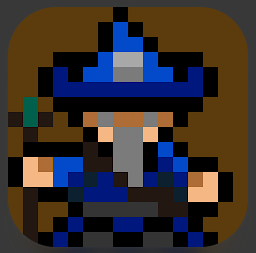
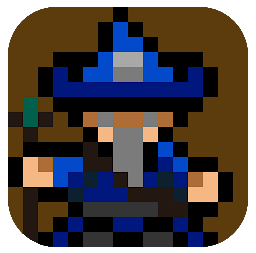
fix: added transparent background for Arithmagic image

Changed region(s): [[0.0, 0.0, 1.0, 1.0]]

diff --git a/src/components/TogetherCars.component.js b/src/components/TogetherCars.component.js
@@ -8,12 +8,12 @@ import EC2 from '../images/EC2.png'
 export default function TogetherCars(props){
     return(
         <div className="pageWrapper">
-            <a href="https://togethercars.dev/">
+            <a href="https://togethercars.dev">
                 <img src={TCimg} alt="Together Cars" className="projectImg"></img>
             </a>
             <div className='projectDescription'>
                 <h3>Project Overview</h3>
-                <p><a href="https://togethercars.dev/">Together Cars</a> is a web app developed using a React frontend and a Node.js/Express
+                <p><a href="https://togethercars.dev">Together Cars</a> is a web app developed using a React frontend and a Node.js/Express
                 backend with mongoDB Atlas as the database. The purpose of the app is to aid in coordinating ride sharing between friends. Users can log in to their profile, create trips, invite other users, mange who will
                 be driving and who will be a passenger in which car and share trips by link. The app is currently live on an AWS EC2 server so go check it out and start using cars together! </p>
             </div>
